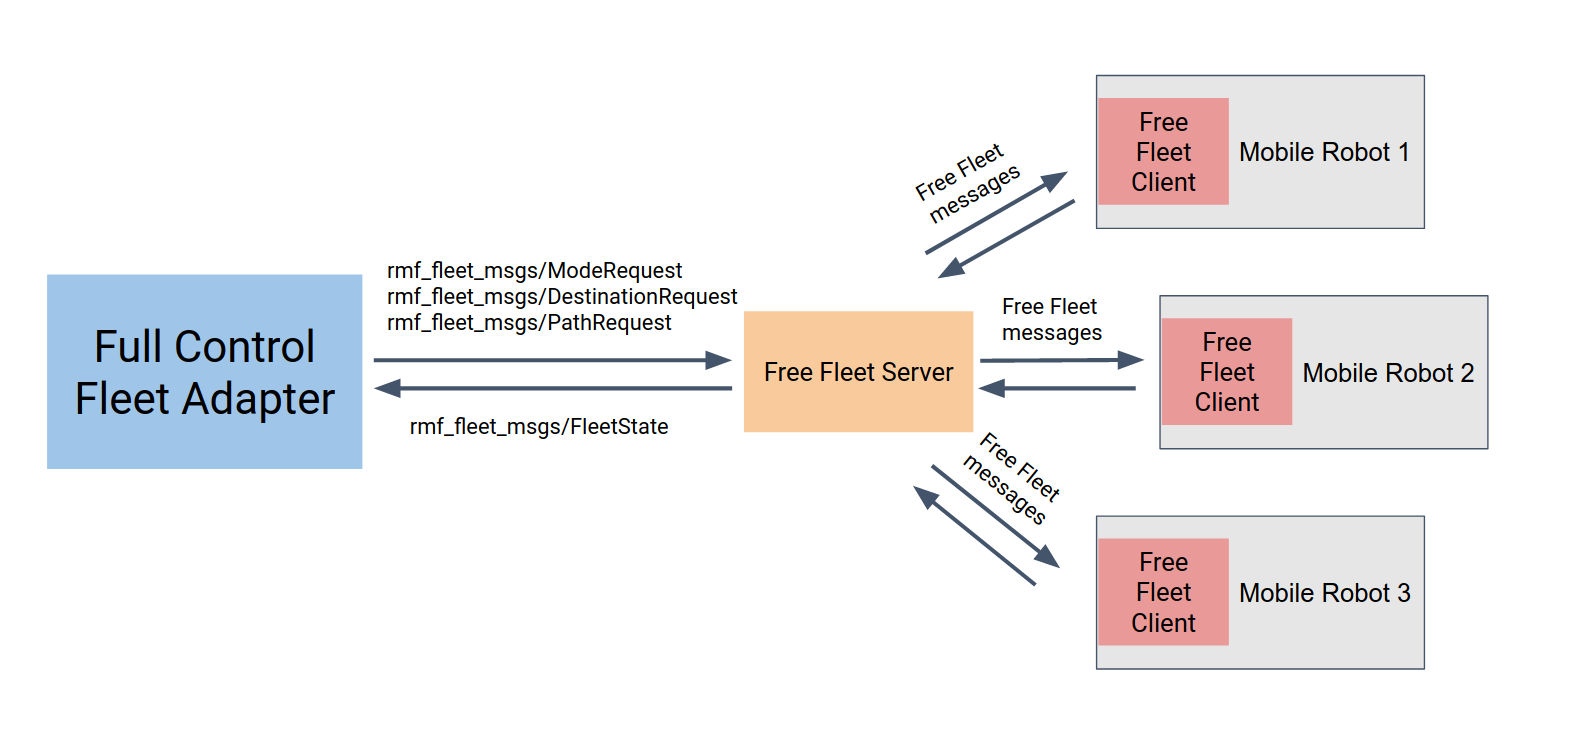
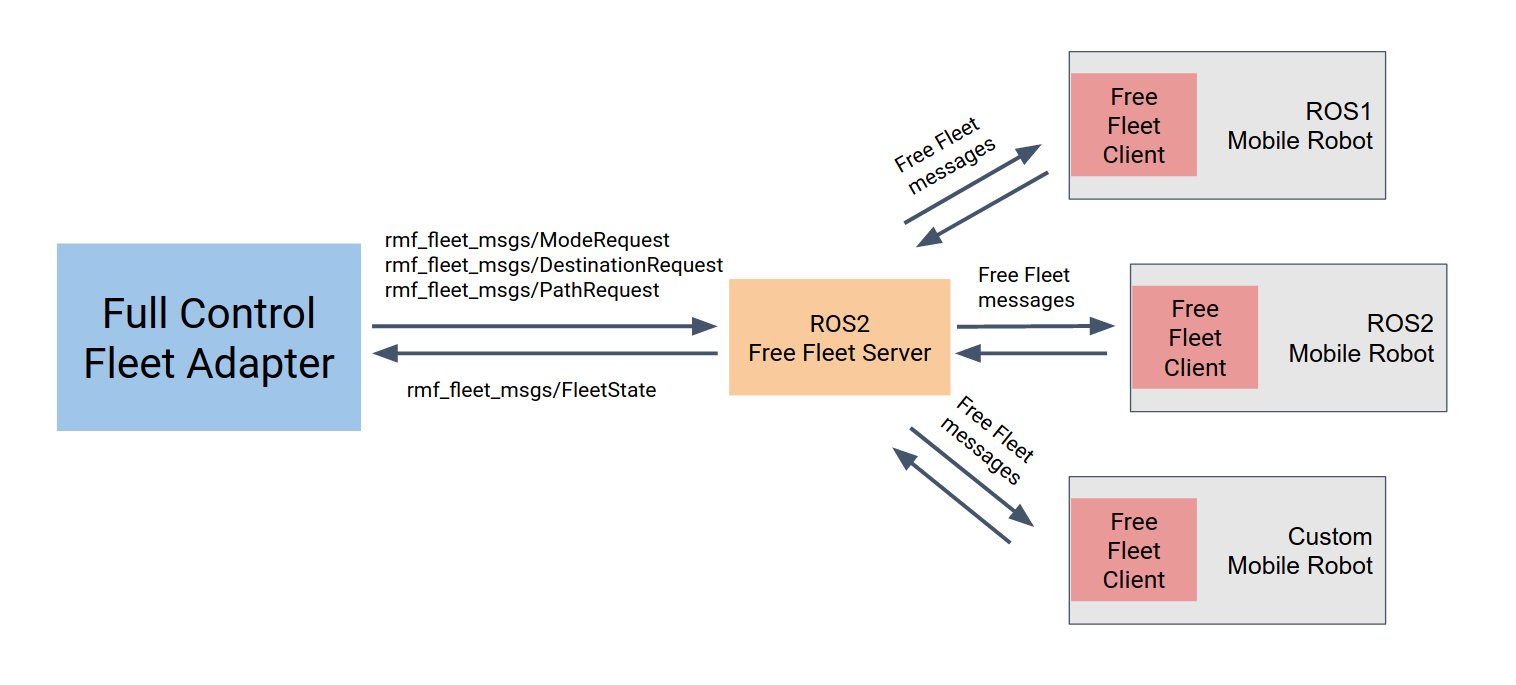
Missing Workcell, TODO: add table for topics and messages

Changed region(s): [[0.031, 0.3372, 0.9611, 0.9197], [0.558, 0.0613, 0.9301, 0.3679]]

diff --git a/src/hardware.md b/src/hardware.md
@@ -112,7 +112,11 @@ If however the user wishes to add more complexity to his or her fleet's behavior
 
 In the event that the user wishes to integrate a standalone mobile robot which doesn't come with its own fleet management system, the open source fleet management system `free_fleet` could be used. 
 
-`free_fleet` can be split into a client and a server. The client is to be run on each of these standalone mobile robots alongside their navigational software, and is intended to have direct control over the mobile robot, while at the same time is able to monitor its status to be reported back to the server. The server is run on a central computer, consolidates the incoming status updates from each client to be either visualized using the developer UI, or relayed upstream to RMF. The server also relays commands from the user via the UI or RMF, down to the clients to be executed. Each server can work with multiple clients at a time, hence it serves the role as a fleet management system. The communication between the server and clients is implemented using `CycloneDDS`, therefore we are not concerned if the mobile robot or central computer is running different versions of ROS.
+`free_fleet` can be split into a client and a server. The client is to be run on each of these standalone mobile robots alongside their navigational software, and is intended to have direct control over the mobile robot, while at the same time is able to monitor its status to be reported back to the server. The client's base implementation is designed to allow interaction with different configurations of mobile robots, while at the same time all report to the same server. This way, users are able to use `free_fleet` to manage a heterogenrous fleet of robots, each using different distributions of ROS, versions of ROS, navigation software, or onboard communication protocols.
+
+The server is run on a central computer, consolidates the incoming status updates from each client to be either visualized using the developer UI, or relayed upstream to RMF. The server also relays commands from the user via the UI or RMF, down to the clients to be executed. Each server can work with multiple clients at a time, hence it serves the role as a fleet management system. The server can be implemented and used as its own fleet management system, or work with larger systems like RMF, bridging the gap between each mobile robot's API and RMF's API and interface.
+
+The communication between the server and clients is implemented using `CycloneDDS`, therefore we are not concerned if the mobile robot or central computer is running different versions of ROS.
 
 In this section, we will address 4 different configurations of using `free_fleet` to integrate with RMF, specifically the navigation stack used by the robot. Each configuration maintains a similar systems architecture, which is illustrated in the simple block diagram below.
 
@@ -225,17 +229,53 @@ In the meantime, if required, users can also implement their own `free_fleet` cl
 
 #### Custom Navigation Stack
 
-In this configuration, it is assumed that the software running on the mobile robot was written by the users themselves, therefore users have a good understanding of their own APIs and intefaces. This would be extremely useful, for implementing their own `free_fleet` client and server wrappers. The block diagram below tries to illustrate this configuration and 
+In this configuration, it is assumed that the software running on the mobile robot was written by the users themselves, therefore users have a good understanding of their own APIs and intefaces. This would be extremely useful, for implementing their own `free_fleet` client wrapper. The block diagram below tries to illustrate this configuration. 
+
+<img src="images/free_fleet_custom_config.png">
+
+Once the custom `free_fleet` client is fully functional, it will be a simple task of launching the same ROS2 `free_fleet` server as mentioned the past section, to work with the fleet adapters through ROS2 messages and topics.
 
 #### Vendor Navigation Stack
 
-<!-- vendor navigation stack that someone else wrote and I can't change it -->
+This configuration assumes that the provided mobile robot is operating on vendor software and hardware, which in most cases, require more effort when it comes to systems integration. There are 2 ways to go about integrating vendor mobile robots with RMF.
+
+The first way to go about it, would be implementing a fleet driver for this robot, as documented in the previous section regarding [Mobile Robot Fleets](#mobile-robot-fleets). This will ensure that the mobile robot communicates directly with fleet adapters, using the provided vendor API, without the need to run a client on the robot. This would be the recommended way of working with vendor mobile robots or vendor navigation stacks.
+
+If however the user intends to both manage the mobile robots using a fleet management system and integrate with RMF, a more roundabout way is possible, by implementing non-intrusive `free_fleet` clients running on the same machine as the server. The `free_fleet` client implementation would need to utilize the provided vendor API to get status updates and provide navigation commands. This implementation is not advisable as it needlessly extends the communication route from RMF to the mobile robot, however if the user intends to manage a heterogeneous fleet of robots, each using different stacks of software and hardware, `free_fleet` could be a reasonable solution to that.
 
 ## Doors
 
+Door integration is an important consideration when introducing RMF into a new environment. They play a significant role in streamlining the operation of mobile robots, as well as increasing their capabilities for navigation and performing deliveries.
+
+For obvious reasons, only automated doors can be integrated with RMF. An automated door can be defined as an electronically powered door that is remotely controllable, either using a remote trigger or has been outfitted with a computing unit capable of commanding the doors when needed, using certain interfaces.
+
+Doors can be integrated with RMF using a ROS2 door node and a door adapter, which we sometimes refer to as a door supervisor. The block diagram below displays the relationship and communication modes between each component.
+
+<img src="images/doors_block_diagram.png">
+
+The door node will have to be implemented based on the model of the door that is being integrated, in order to properly access the API of the door controller module. The communication protocol will also be dependent on the door and controller model, which might be some form of `REST`, `RPCXML`, etc. The door node is in charge of publishing its state using the ROS2 `rmf_door_msgs/DoorState` message over the topic `door_states`, while receiving commands using `rmf_door_msgs/DoorRequests` over `door_requests`.
+
+The door adapter stands in between the rest of the RMF core systems, fleet adapters, and the door node, and acts like a state supervisor, ensuring that the doors are not acting on requests that might obstruct an ongoing mobile robot task or damaging it by closing on it. It keeps track of the door state from the door node, and receives requests from the `adapter_door_requests` topic which are published by either fleet adapters or other parts of the RMF core system. Only when the door adapter deems that a request is safe enough to be performed, it will instruct the door node using a request. It should also be noted that direct requests sent to the door node, without going through the door adapter will be negated by the door adapter, to return it to its state befoe, to prevent disruptions during operations with mobile robots.
+
+<!-- how doors can be drawn in traffic editor -->
+
 ## Elevators
 
+Elevator integration will allow RMF to work over multiple levels, resolving conflicts and managing shared resources on a larger scale. Similar to door integration, the requirements are that the lift controllers accepts commands using a certain protocol, `OPC` is one such example.
+
+The elevators will be integrated in a similar fashion as doors as well, relying on a lift node and a lift adapter. The following block diagram shows how each component works with each other.
+
+<img src="images/lifts_block_diagram.png">
+
+The lift node will act as a driver to work with the lift controller. There already exists an example of a lift node, you can find the repository [here](https://github.com/sharp-rmf/kone_lift_controller). The node will publish its state over the topic `lift_states`, and receive lift requests over the topic `lift_request`.
+
+A lift adapter subscribes to `lift_states` while keeping track of the internal and desired state of the lift, to prevent it from performing any actions that might interrupt mobile robot operation or cause damage to humans, infrastructure or mobile robots. It performs this task by receiving lift requests from the fleet adapters and the rest of the RMF core systems, and only relaying the instructions to the lift node if it is deemed safe. Any requests sent directly to the lift node, without going through the lift adapter, will also be negated by the lift adapter, to prevent unwanted disruption to mobile robot fleet operations.
+
+<!-- how lifts can be drawn in traffic editor -->
+
 ## Workcells
+
+To be updated.
 
 # Map data requirements for integration with RoMi-H / rmf_core
 
